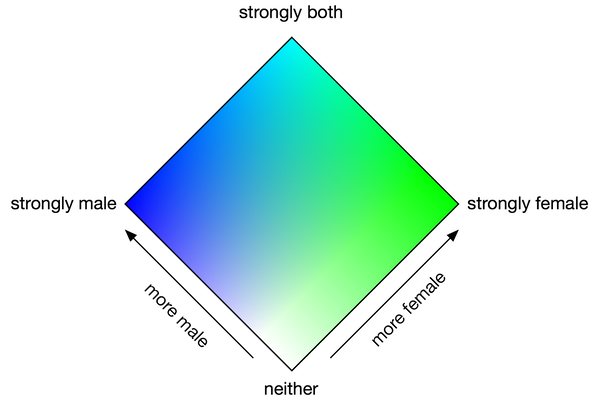
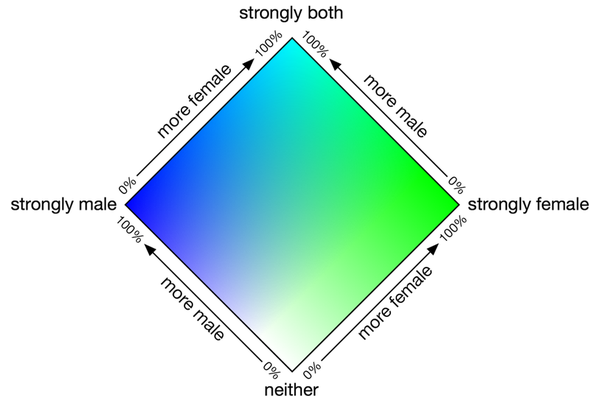
Add package stuff, update image

Changed region(s): [[0.0, 0.0, 0.99, 0.99], [0.54, 0.15, 0.72, 0.42]]

diff --git a/karma.conf.js b/karma.conf.js
@@ -1,0 +1,66 @@
+// Karma configuration
+// Generated on Thu Dec 11 2014 00:26:55 GMT-0800 (PST)
+
+module.exports = function(config) {
+  config.set({
+
+    // base path that will be used to resolve all patterns (eg. files, exclude)
+    basePath: '',
+
+
+    // frameworks to use
+    // available frameworks: https://npmjs.org/browse/keyword/karma-adapter
+    frameworks: ['jasmine'],
+
+
+    // list of files / patterns to load in the browser
+    files: [
+      'bower_components/jquery/src/**',
+      'js/*.js'
+    ],
+
+
+    // list of files to exclude
+    exclude: [
+    ],
+
+
+    // preprocess matching files before serving them to the browser
+    // available preprocessors: https://npmjs.org/browse/keyword/karma-preprocessor
+    preprocessors: {
+    },
+
+
+    // test results reporter to use
+    // possible values: 'dots', 'progress'
+    // available reporters: https://npmjs.org/browse/keyword/karma-reporter
+    reporters: ['progress'],
+
+
+    // web server port
+    port: 9876,
+
+
+    // enable / disable colors in the output (reporters and logs)
+    colors: true,
+
+
+    // level of logging
+    // possible values: config.LOG_DISABLE || config.LOG_ERROR || config.LOG_WARN || config.LOG_INFO || config.LOG_DEBUG
+    logLevel: config.LOG_INFO,
+
+
+    // enable / disable watching file and executing tests whenever any file changes
+    autoWatch: true,
+
+
+    // start these browsers
+    // available browser launchers: https://npmjs.org/browse/keyword/karma-launcher
+    browsers: ['Chrome'],
+
+
+    // Continuous Integration mode
+    // if true, Karma captures browsers, runs the tests and exits
+    singleRun: false
+  });
+};

diff --git a/README.md b/README.md
@@ -1,4 +1,4 @@
-gender-widget
-=============
+gendermap
+=========
 
 Javascript widget for describing gender identity on a two-axis scale
